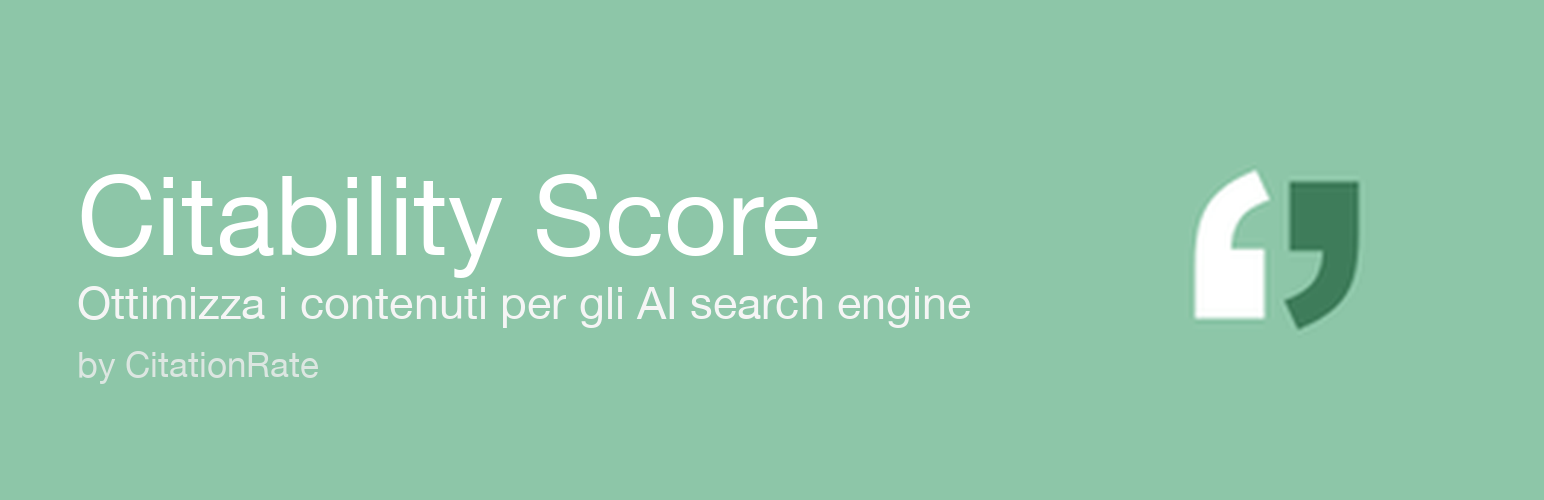
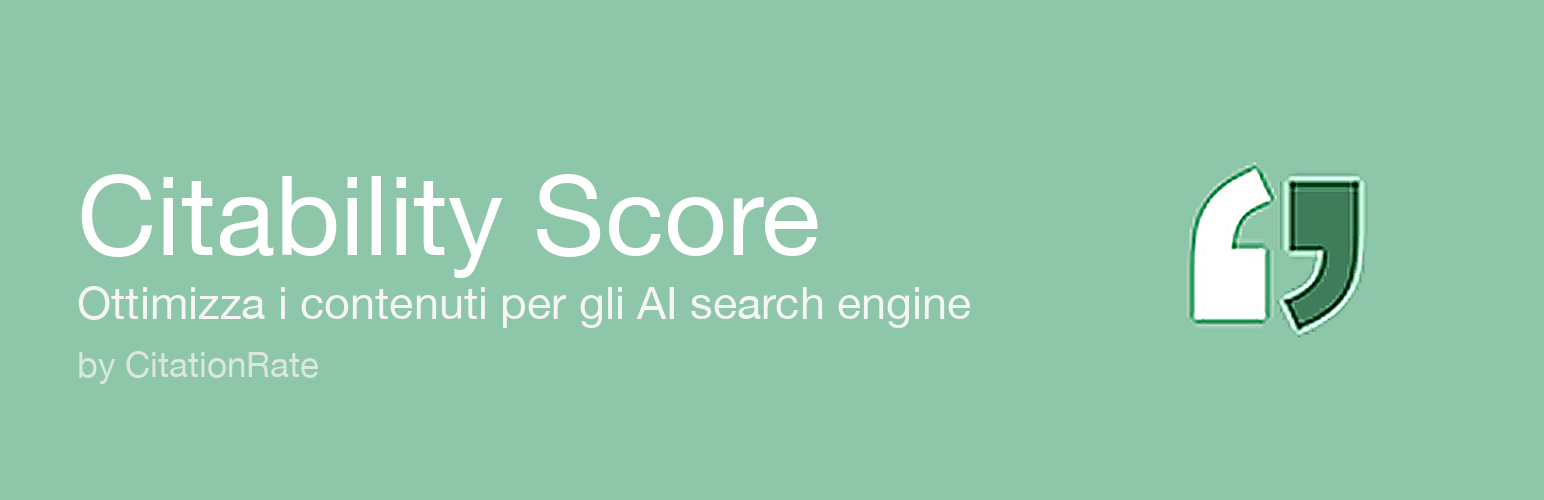
fix(wp-org): sharpen all assets via stepwise lanczos + double UnsharpMask
Source logo is only 120x120; upscaling to 256 (icons) and 350px (banner
logo) produced visible blur. Regenerate via PIL: 2x stepwise resize with
UnsharpMask (radius=2.0, percent=180, threshold=2) followed by a fine
pass (radius=0.8, percent=80, threshold=0) for crisp edges on the
quotation marks against the sage-green background.

Changed region(s): [[0.7461, 0.33, 0.9016, 0.66]]

diff --git a/.wp-org/make_banners.py b/.wp-org/make_banners.py
@@ -1,20 +1,22 @@
-"""Generate WordPress.org banner assets from the CitationRate logo source.
+"""Generate WordPress.org icon + banner assets from the CitationRate logo source.
+
+The source logo is only 120x120, so every WP.org variant is an upscale. After
+Lanczos resampling we apply an UnsharpMask pass to recover edge sharpness on
+the white quotation marks against the sage-green background.
 
 Outputs:
+  icon-256x256.png
+  icon-128x128.png
   banner-772x250.png    (standard banner)
   banner-1544x500.png   (retina banner)
-
-Layout: solid sage-green background matching the logo, logo placed on the
-right side, white "Citability Score" headline + subtitle on the left.
 """
 
 import os
-from PIL import Image, ImageDraw, ImageFont
+from PIL import Image, ImageDraw, ImageFont, ImageFilter
 
 HERE = os.path.dirname(__file__)
 LOGO_PATH = os.path.join(HERE, "icon-source.png")
 
-# Sage green matching the source logo background (sampled at pixel (10,10)).
 src = Image.open(LOGO_PATH).convert("RGB")
 BG = src.getpixel((10, 10))
 
@@ -35,13 +37,40 @@ def find_font(size: int) -> ImageFont.FreeTypeFont:
     return ImageFont.load_default()
 
 
+def sharpen(img: Image.Image) -> Image.Image:
+    """Two-pass sharpening: gentle unsharp mask then a fine pass to crisp edges."""
+    out = img.filter(ImageFilter.UnsharpMask(radius=2.0, percent=180, threshold=2))
+    out = out.filter(ImageFilter.UnsharpMask(radius=0.8, percent=80, threshold=0))
+    return out
+
+
+def upscaled_logo(target_size: int) -> Image.Image:
+    """Stepwise upscale from 120 to target with Lanczos + sharpen at each step."""
+    img = src
+    current = img.size[0]
+    while current < target_size:
+        next_size = min(current * 2, target_size)
+        img = img.resize((next_size, next_size), Image.LANCZOS)
+        img = sharpen(img)
+        current = next_size
+    if img.size[0] != target_size:
+        img = img.resize((target_size, target_size), Image.LANCZOS)
+        img = sharpen(img)
+    return img
+
+
+def make_icon(size: int, output: str) -> None:
+    img = upscaled_logo(size)
+    img.save(output, "PNG", optimize=True)
+    print(f"wrote {output}  ({size}x{size})")
+
+
 def draw_banner(width: int, height: int, output: str) -> None:
     img = Image.new("RGB", (width, height), BG)
     draw = ImageDraw.Draw(img)
 
-    # Logo on the right, vertically centered.
     logo_size = int(height * 0.7)
-    logo = src.resize((logo_size, logo_size), Image.LANCZOS)
+    logo = upscaled_logo(logo_size)
     logo_x = width - logo_size - int(width * 0.06)
     logo_y = (height - logo_size) // 2
     img.paste(logo, (logo_x, logo_y))
@@ -67,5 +96,7 @@ def draw_banner(width: int, height: int, output: str) -> None:
     print(f"wrote {output}  ({width}x{height})")
 
 
+make_icon(256, os.path.join(HERE, "icon-256x256.png"))
+make_icon(128, os.path.join(HERE, "icon-128x128.png"))
 draw_banner(772, 250, os.path.join(HERE, "banner-772x250.png"))
 draw_banner(1544, 500, os.path.join(HERE, "banner-1544x500.png"))
